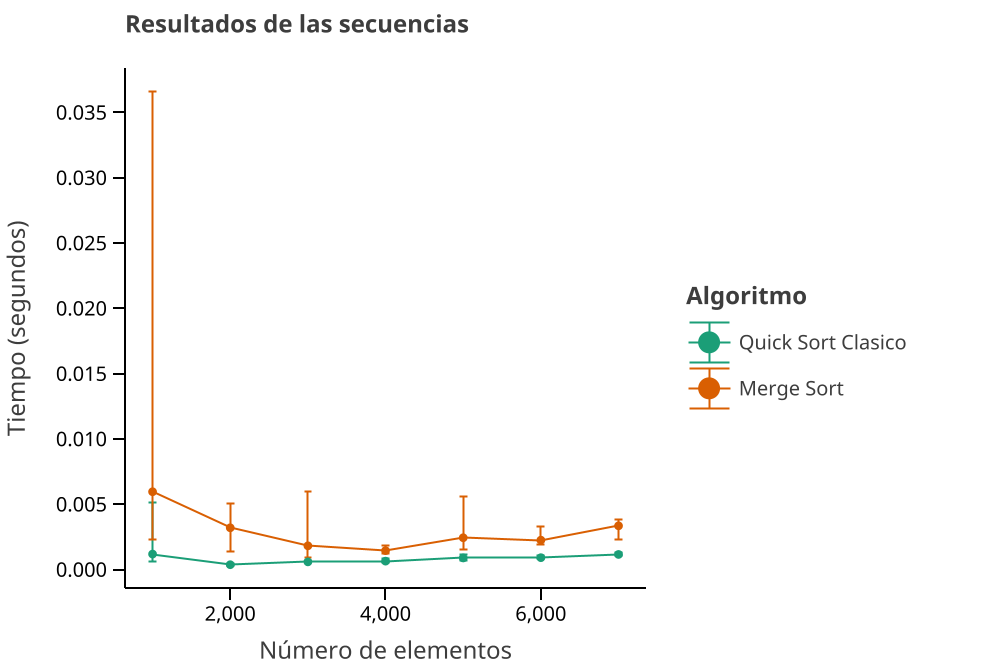
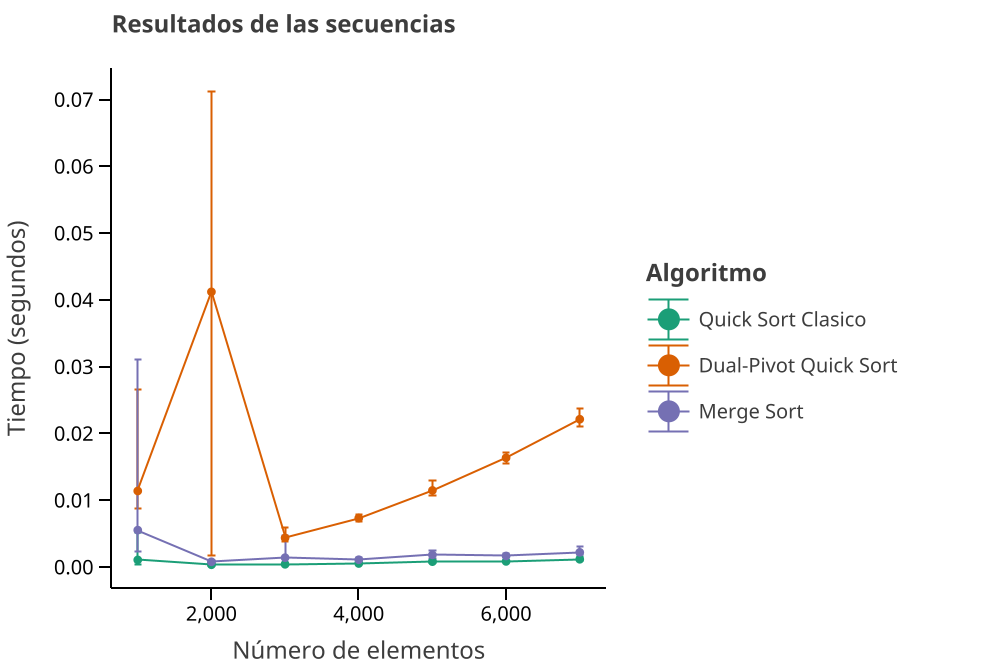
lab 4 pseudo listo

diff --git a/LabSem4_1910040_1910109/Ordenamiento.kt b/LabSem4_1910040_1910109/Ordenamiento.kt
@@ -204,18 +204,30 @@ fun particion(A: Array<Number>, p: Int, r: Int): Int {
 * requires: A != null && A.size > 0
 * ensures: result != null && (forall int i; 0 <= i < result.size-1; result[i] <= result[i+1])
 */
-fun dualPivotQuicksort(A: Array<Number>): Array<Number> {
-    if (A.size - 0 >= 1) {
-        var P = minOf(A[0].toInt() , A[A.size - 1].toInt())
-        var Q = maxOf(A[0].toInt(), A[A.size - 1].toInt())
-        var k = 1
-        var l = 1
-        var g = A.size - 1
+fun dualPivotQuicksort(A: Array<Number>) : Array<Number> {
+    dualPivotQuicksortAux(A, 0, A.size - 1)
+    return A
+}
+
+// Funcion de ordenamiento DualPivotQuickSort
+/**
+* requires: A != null && A.size > 0
+* ensures: result != null && (forall int i; 0 <= i < result.size-1; result[i] <= result[i+1])
+*/
+fun dualPivotQuicksortAux(A: Array<Number>, izq : Int, der : Int): Array<Number> {
+    var P : Number
+    var Q : Number
+    if (der - izq >= 1) {
+        if (A[izq] >= A[der]) {P = A[der]; Q = A[izq]}
+        else {P = A[izq]; Q = A[der]}
+        var k = izq + 1
+        var l = k
+        var g = der - 1
         while (k <= g) {
             if (A[k] < P) {
                 swap(A, k, l)
-                l += 1
-            } else if (A[k] >= Q) {
+                l += 1}
+            else if (A[k] >= Q) {
                 while (A[g] > Q && k < g) {
                     g -= 1
                 }
@@ -230,13 +242,13 @@ fun dualPivotQuicksort(A: Array<Number>): Array<Number> {
         }
         l -= 1
         g += 1
-        swap(A, 0, l)
-        swap(A, l, P)
-        swap(A, A.size - 1, g)
-        swap(A, g, Q)
-        dualPivotQuicksort(A.sliceArray(0 until l-1))
-        dualPivotQuicksort(A.sliceArray(l+1 until g-1))
-        dualPivotQuicksort(A.sliceArray(g+1 until A.size-1))
+        A[izq] = A[l]
+        A[l] = P
+        A[der] = A[g]
+        A[g] = Q
+        dualPivotQuicksortAux(A, izq, l-1)
+        dualPivotQuicksortAux(A, l+1, g-1)
+        dualPivotQuicksortAux(A, g+1, der)
     }
     return A
 }

diff --git a/LabSem4_1910040_1910109/PruebaOrdenamiento.kt b/LabSem4_1910040_1910109/PruebaOrdenamiento.kt
@@ -339,9 +339,7 @@ fun algoritmoAEjecutar(array : Array<Number>, tnum: Int, algoritmo: String, num 
             timeProm = 0.0
             // Se ejecuta el algoritmo de ordenamiento correspondiente
             repeat(tnum) {
-                println("QuickSort Clasico --->  "+copies[h][0]+" "+copies[h][1]+" "+copies[h][2]+" "+copies[h][3]+" "+copies[h][4]+" "+copies[h][5])
                 val tiempoEjecucion = measureNanoTime {array2 = quicksort(copies[h])}
-                println("QuickSort Clasico --->  "+array2[0]+" "+array2[1]+" "+array2[2]+" "+array2[3]+" "+array2[4]+" "+array2[5])
                 val elapsedTime2 = tiempoEjecucion.toDouble() / 1000000000.0
                 copiasTiempo[h] = elapsedTime2.toDouble()
                 println("QuickSort Clasico ---> Tiempo transcurrido: " + elapsedTime2.toString() + " segundos")
